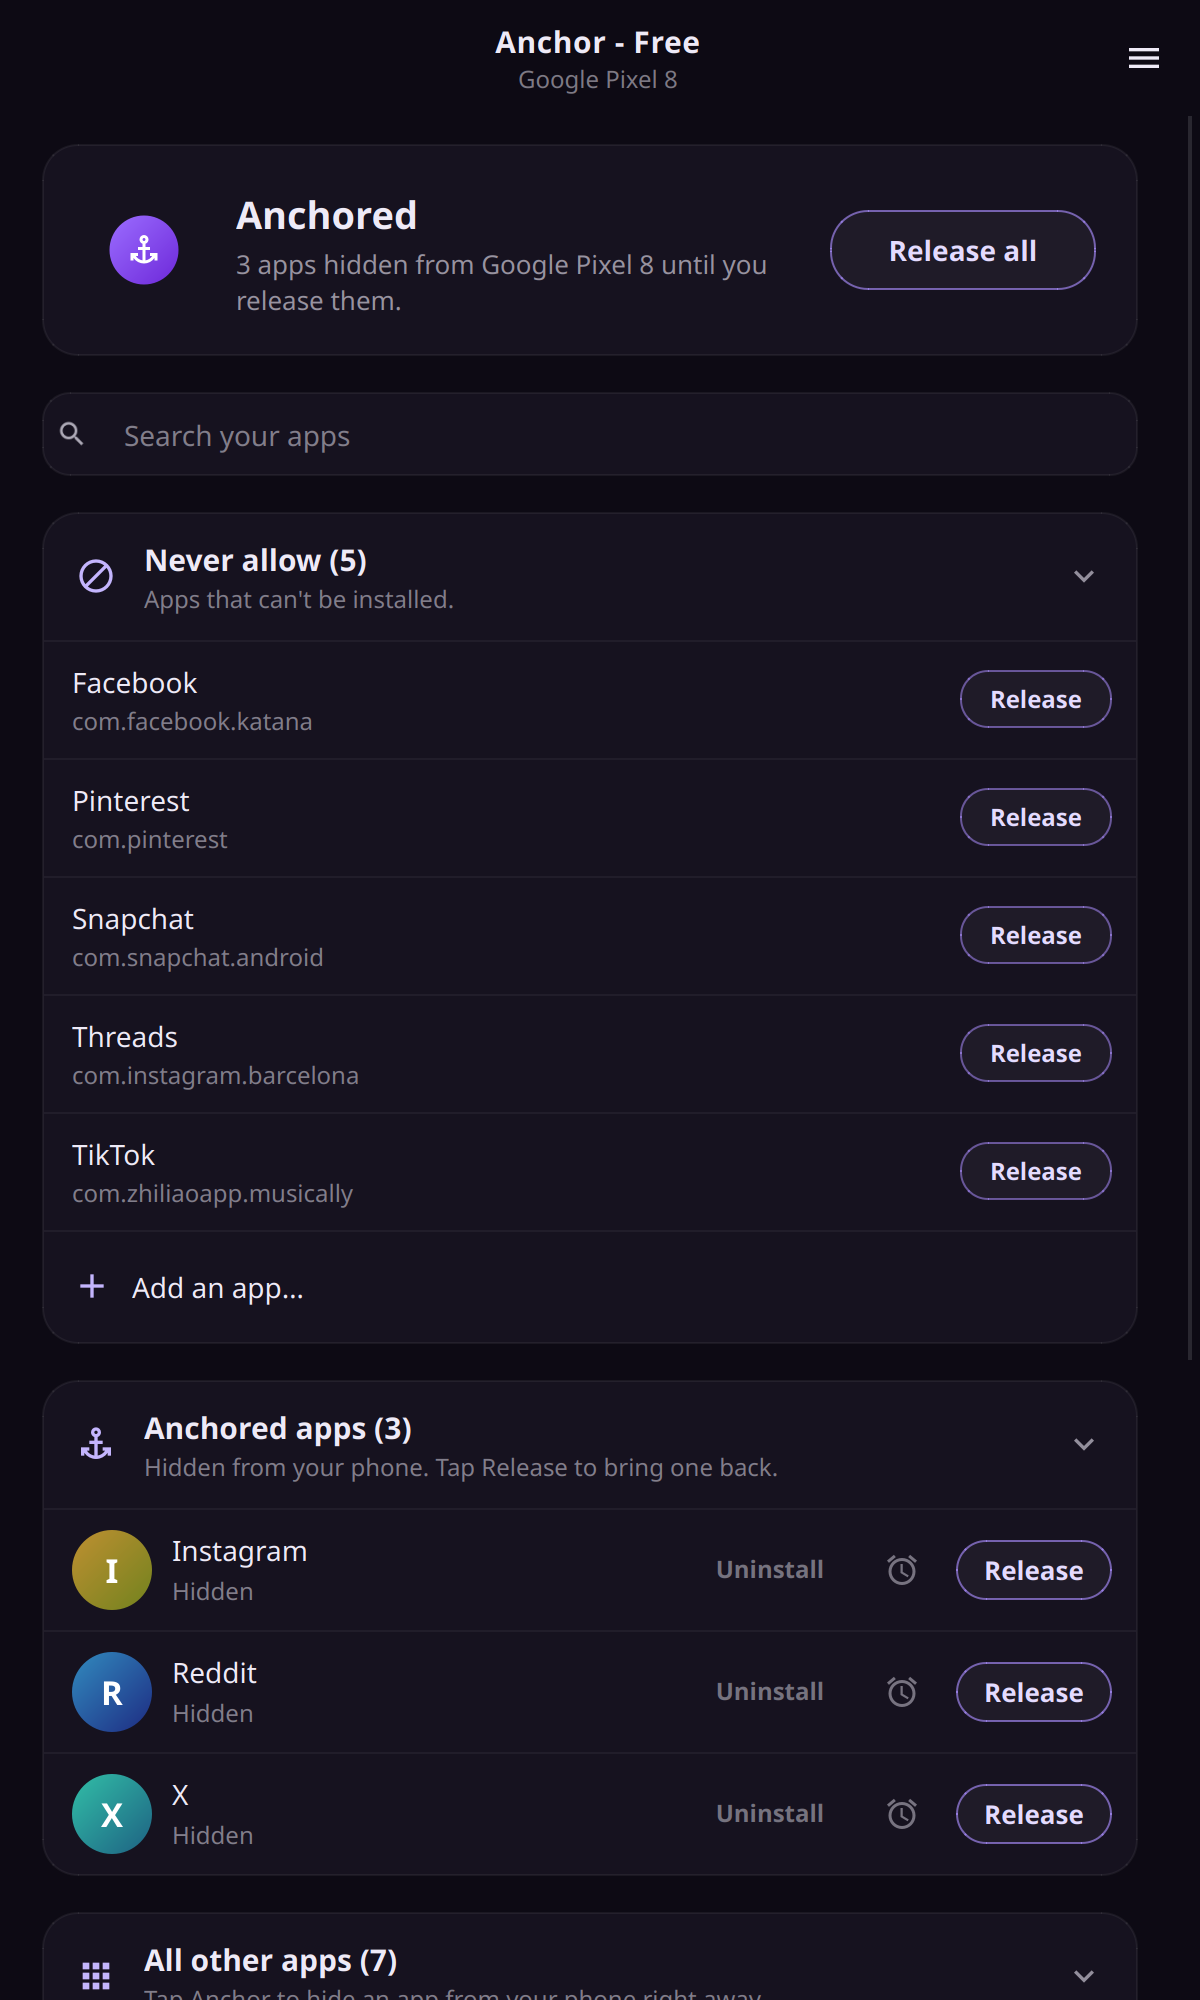
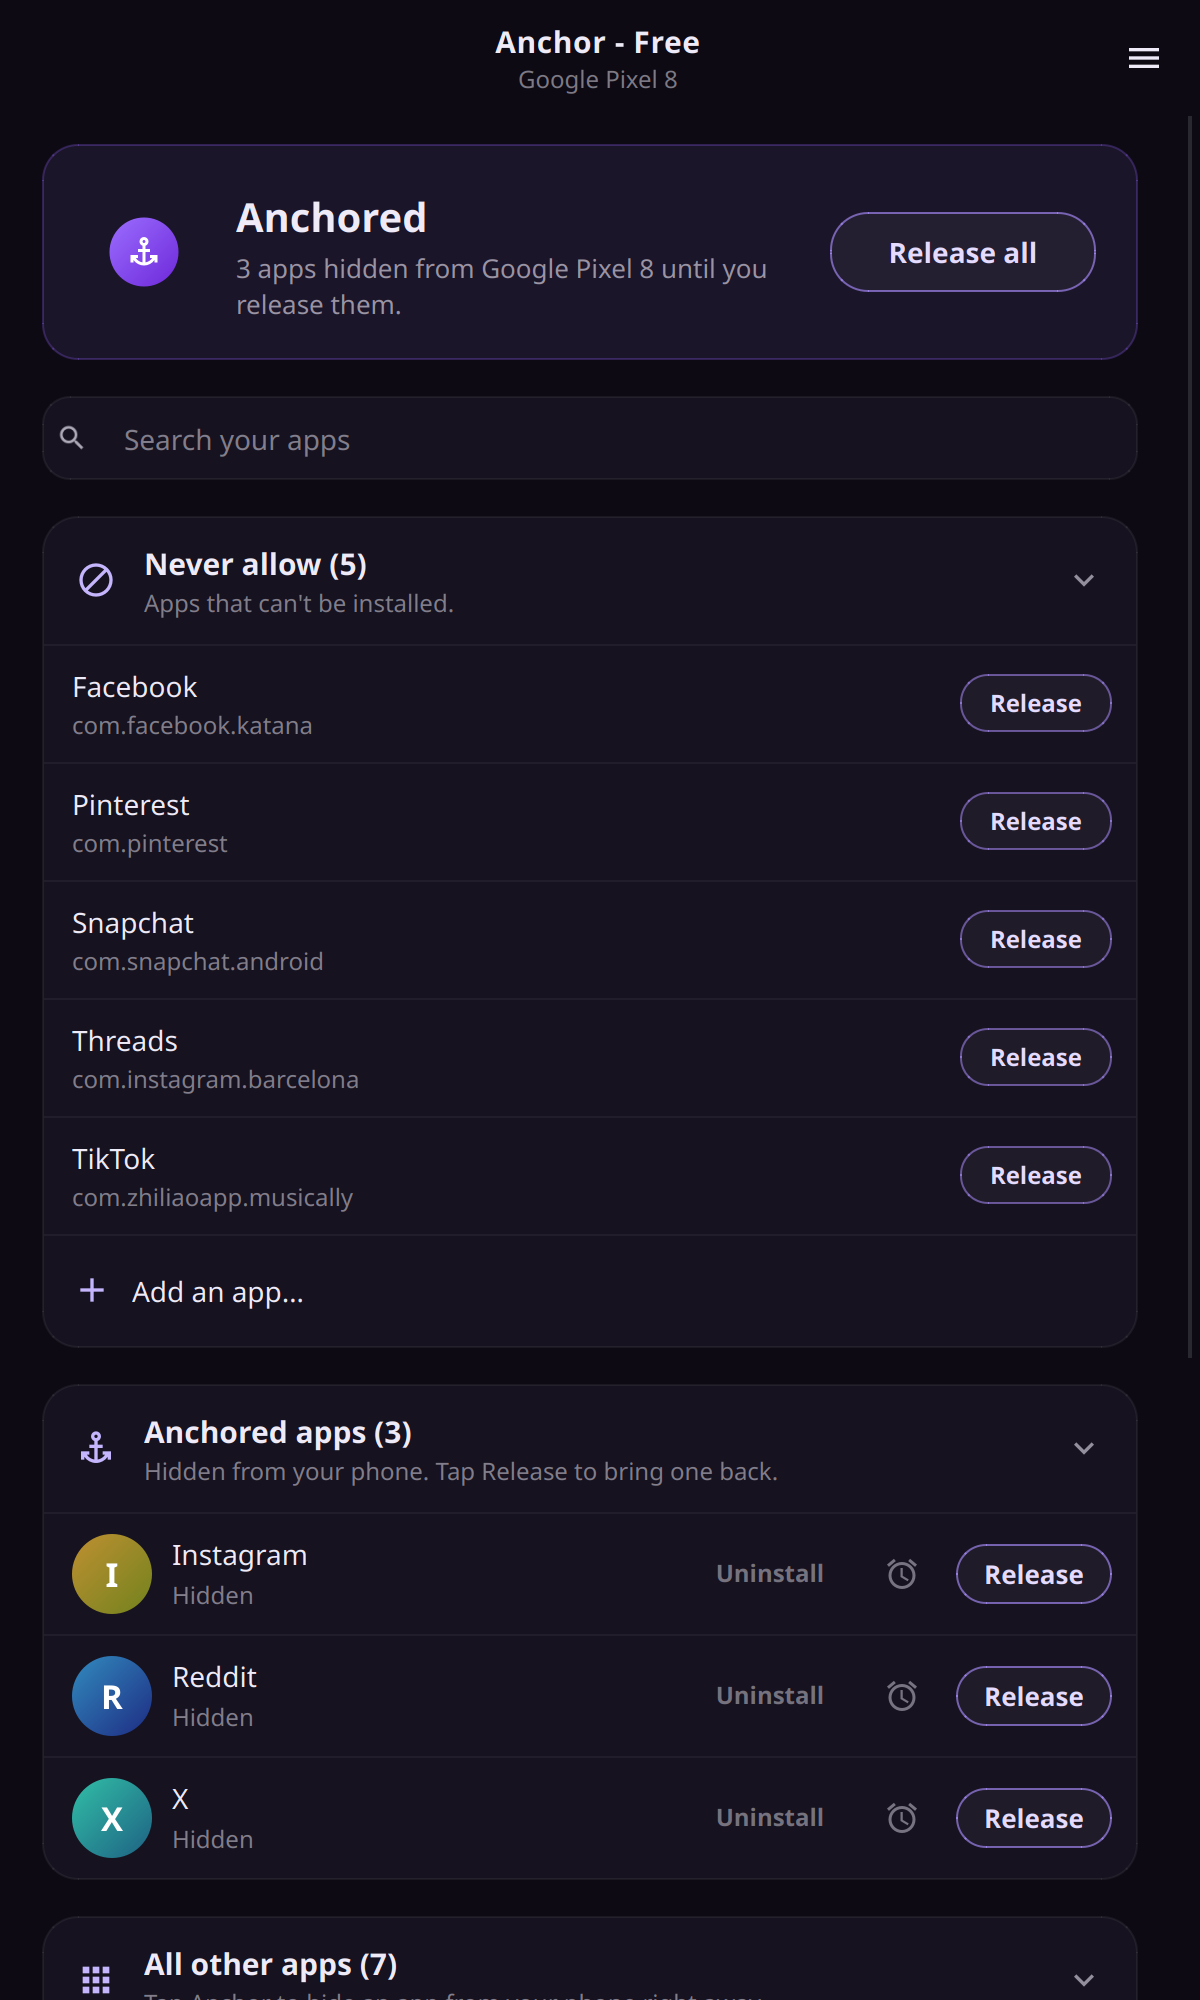
update

diff --git a/free/windows/desktop/theme.py b/free/windows/desktop/theme.py
@@ -53,7 +53,8 @@ QScrollBar:horizontal {{ height: 0; }}
 
 /* ---- Status bar (hero) ---- */
 #hero {{ border-radius: 18px; border: 1px solid {BORDER}; background: {CARD}; }}
-#heroTitle {{ font-size: 19px; font-weight: 700; }}
+#hero[anchored="true"] {{ border: 1px solid rgba(139, 92, 246, 0.28); background: #1B1529; }}
+#heroTitle {{ font-size: 20px; font-weight: 800; }}
 #heroSubtitle {{ color: rgba(238, 234, 247, 0.6); font-size: 13px; }}
 
 /* ---- Buttons ---- */

diff --git a/free/linux/desktop/anchor.py b/free/linux/desktop/anchor.py
@@ -73,7 +73,8 @@ headerbar .subtitle { color: alpha(@window_fg_color, 0.5); }
   background-color: #16121F;
   box-shadow: 0 0 0 1px alpha(white, 0.06);
 }
-.hero-title { font-size: 1.3em; font-weight: 700; }
+.hero.anchored { background-color: #1B1529; box-shadow: 0 0 0 1px alpha(#8B5CF6, 0.28); }
+.hero-title { font-size: 1.38em; font-weight: 800; }
 .hero-subtitle { color: alpha(@window_fg_color, 0.6); font-size: 0.93em; }
 
 /* ---- Buttons ---- */
